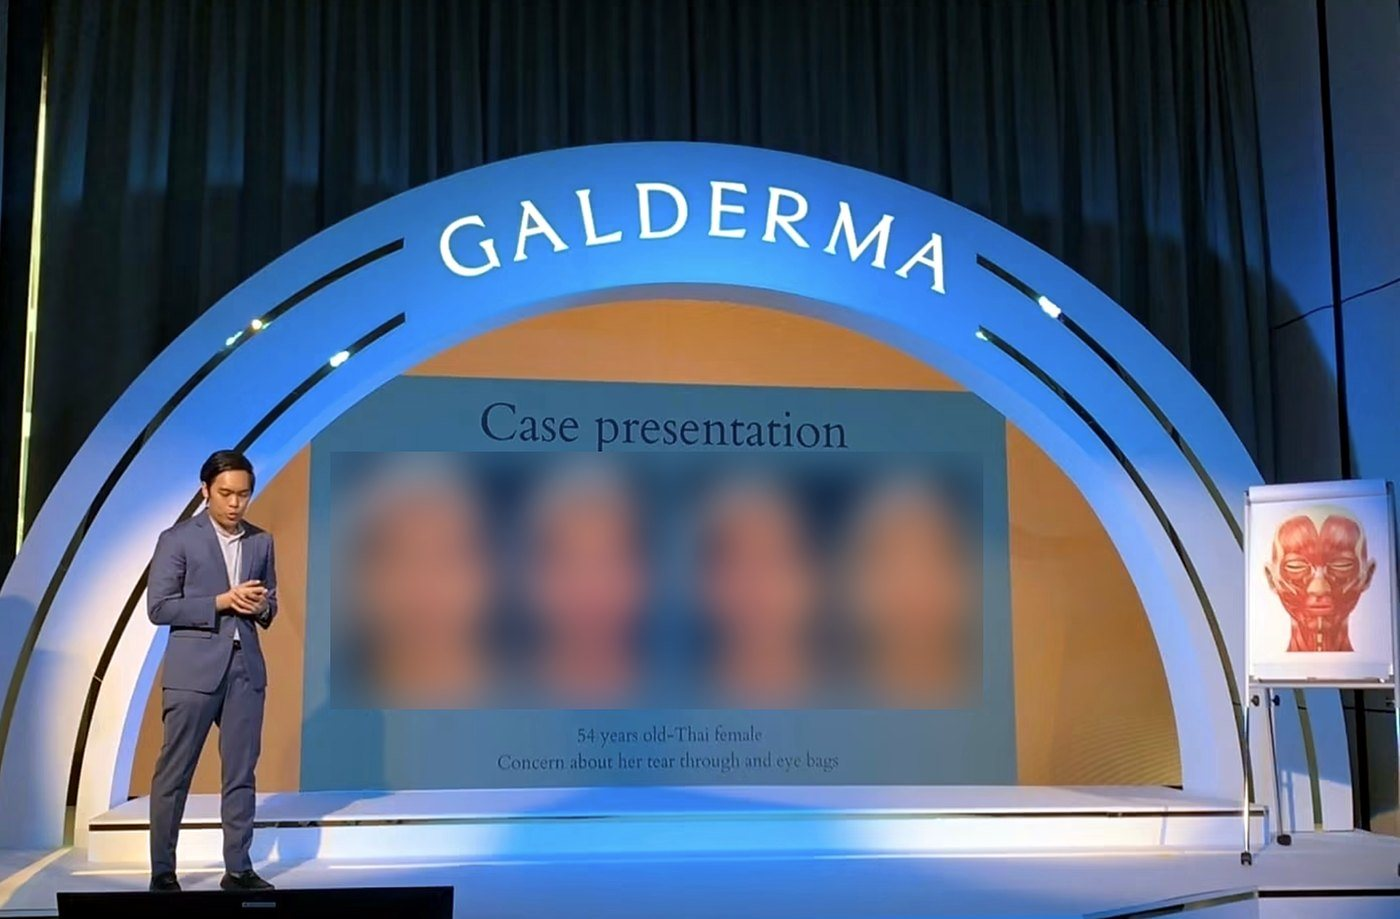
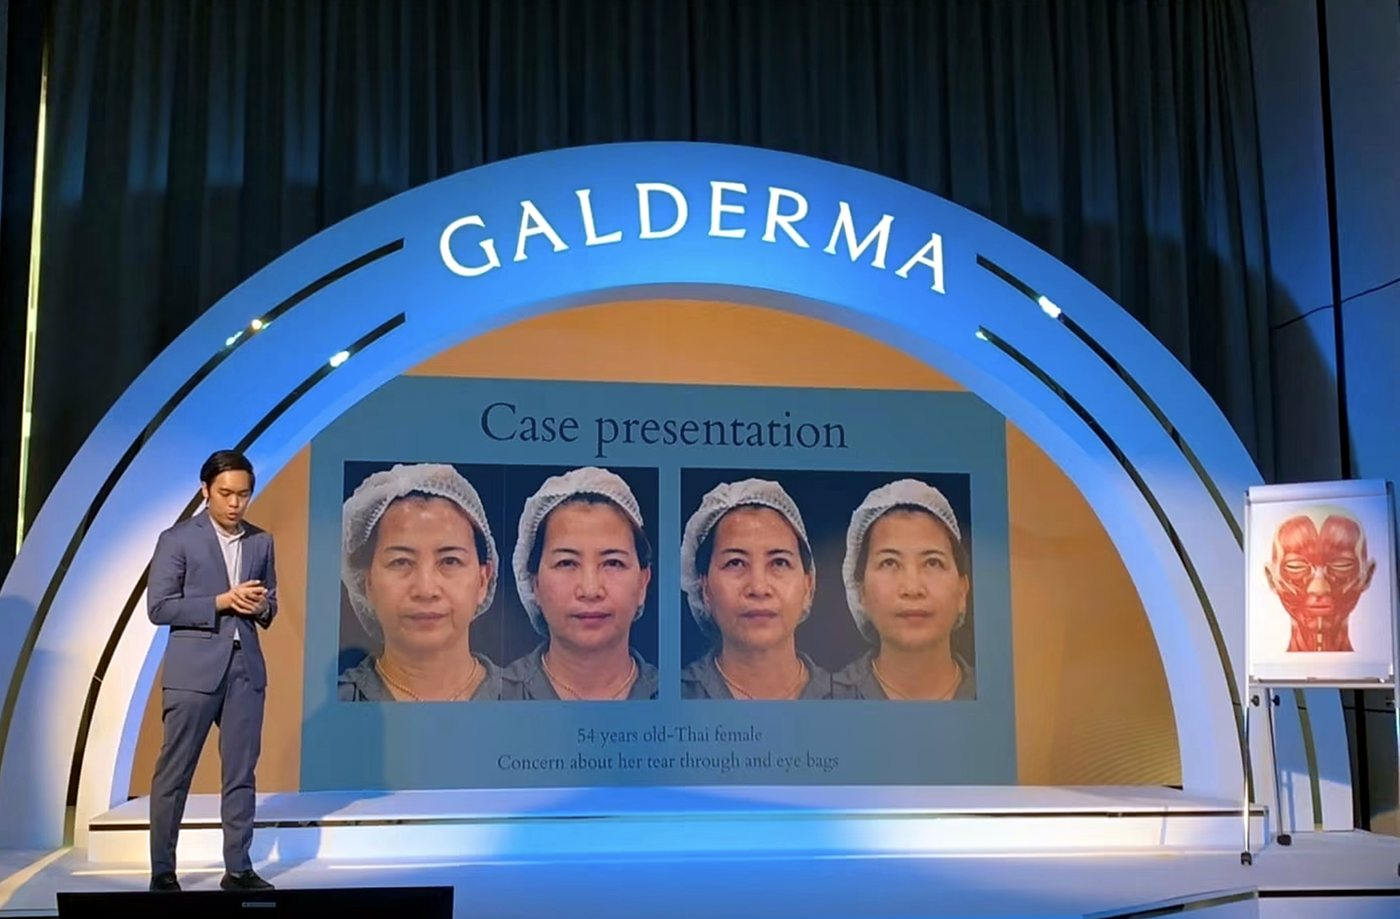
Doctor page: show case-presentation slide unblurred (patient consent on file)
Claude-Session: https://claude.ai/code/session_01QoYuxddHiAEPK6JLSSJk5B

Changed region(s): [[0.215, 0.4875, 0.7064, 0.7922]]

diff --git a/doctor/index.html b/doctor/index.html
@@ -167,7 +167,7 @@
 <figure class="s-b"><picture><source srcset="/assets/img/doctor/handson-workshop-2022.webp?v=ed2eb88d1f" type="image/webp"><img src="/assets/img/doctor/handson-workshop-2022.jpg?v=58b7c0e2cb" alt="นพ.เดโชวัต ดูแลแพทย์ผู้เข้าอบรมระหว่างฝึกฉีด" width="1400" height="864" loading="lazy"></picture><figcaption>ลงมือข้างแพทย์ผู้เข้าอบรม · 2022</figcaption></figure>
 <figure class="s-c"><picture><source srcset="/assets/img/doctor/kysse-roadshow-2022-demo.webp?v=7a95aadb42" type="image/webp"><img src="/assets/img/doctor/kysse-roadshow-2022-demo.jpg?v=fa170f92ed" alt="นพ.เดโชวัต สาธิตต่อหน้าแพทย์ผู้เข้าอบรม" width="870" height="799" loading="lazy"></picture><figcaption>สาธิตต่อหน้าแพทย์ · 2022</figcaption></figure>
 <figure class="s-d"><picture><source srcset="/assets/img/doctor/training-group-2022.webp?v=369ec172e9" type="image/webp"><img src="/assets/img/doctor/training-group-2022.jpg?v=a3c6af235f" alt="ภาพหมู่วิทยากรและแพทย์ผู้เข้าอบรม" width="1400" height="925" loading="lazy"></picture><figcaption>จบอีกหนึ่งรุ่น · 2022</figcaption></figure>
-<figure class="s-e"><picture><source srcset="/assets/img/doctor/case-presentation-stage.webp?v=349a600e40" type="image/webp"><img src="/assets/img/doctor/case-presentation-stage.jpg?v=901b339c12" alt="นพ.เดโชวัต นำเสนอเคสบนเวที (เบลอภาพผู้รับการรักษา)" width="1400" height="919" loading="lazy"></picture><figcaption>นำเสนอเคสบนเวที</figcaption></figure>
+<figure class="s-e"><picture><source srcset="/assets/img/doctor/case-presentation-stage.webp?v=d3a6186c0c" type="image/webp"><img src="/assets/img/doctor/case-presentation-stage.jpg?v=3ea741f62c" alt="นพ.เดโชวัต นำเสนอเคสบนเวที" width="1400" height="919" loading="lazy"></picture><figcaption>นำเสนอเคสบนเวที</figcaption></figure>
 <figure class="s-f"><picture><source srcset="/assets/img/doctor/gain-2021-trophy.webp?v=4199009e3f" type="image/webp"><img src="/assets/img/doctor/gain-2021-trophy.jpg?v=0f946477a2" alt="นพ.เดโชวัต ถือถ้วยรางวัลและใบประกาศบนเวที" width="1400" height="1398" loading="lazy"></picture><figcaption>รับรางวัล · 2021</figcaption></figure>
 </div>
 </div>

diff --git a/pages/doctor.html b/pages/doctor.html
@@ -116,7 +116,7 @@
 <figure class="s-b"><picture><source srcset="/assets/img/doctor/handson-workshop-2022.webp" type="image/webp"><img src="/assets/img/doctor/handson-workshop-2022.jpg" alt="นพ.เดโชวัต ดูแลแพทย์ผู้เข้าอบรมระหว่างฝึกฉีด" width="1400" height="864" loading="lazy"></picture><figcaption>ลงมือข้างแพทย์ผู้เข้าอบรม · 2022</figcaption></figure>
 <figure class="s-c"><picture><source srcset="/assets/img/doctor/kysse-roadshow-2022-demo.webp" type="image/webp"><img src="/assets/img/doctor/kysse-roadshow-2022-demo.jpg" alt="นพ.เดโชวัต สาธิตต่อหน้าแพทย์ผู้เข้าอบรม" width="870" height="799" loading="lazy"></picture><figcaption>สาธิตต่อหน้าแพทย์ · 2022</figcaption></figure>
 <figure class="s-d"><picture><source srcset="/assets/img/doctor/training-group-2022.webp" type="image/webp"><img src="/assets/img/doctor/training-group-2022.jpg" alt="ภาพหมู่วิทยากรและแพทย์ผู้เข้าอบรม" width="1400" height="925" loading="lazy"></picture><figcaption>จบอีกหนึ่งรุ่น · 2022</figcaption></figure>
-<figure class="s-e"><picture><source srcset="/assets/img/doctor/case-presentation-stage.webp" type="image/webp"><img src="/assets/img/doctor/case-presentation-stage.jpg" alt="นพ.เดโชวัต นำเสนอเคสบนเวที (เบลอภาพผู้รับการรักษา)" width="1400" height="919" loading="lazy"></picture><figcaption>นำเสนอเคสบนเวที</figcaption></figure>
+<figure class="s-e"><picture><source srcset="/assets/img/doctor/case-presentation-stage.webp" type="image/webp"><img src="/assets/img/doctor/case-presentation-stage.jpg" alt="นพ.เดโชวัต นำเสนอเคสบนเวที" width="1400" height="919" loading="lazy"></picture><figcaption>นำเสนอเคสบนเวที</figcaption></figure>
 <figure class="s-f"><picture><source srcset="/assets/img/doctor/gain-2021-trophy.webp" type="image/webp"><img src="/assets/img/doctor/gain-2021-trophy.jpg" alt="นพ.เดโชวัต ถือถ้วยรางวัลและใบประกาศบนเวที" width="1400" height="1398" loading="lazy"></picture><figcaption>รับรางวัล · 2021</figcaption></figure>
 </div>
 </div>

diff --git a/en/doctor/index.html b/en/doctor/index.html
@@ -167,7 +167,7 @@
 <figure class="s-b"><picture><source srcset="/assets/img/doctor/handson-workshop-2022.webp?v=ed2eb88d1f" type="image/webp"><img src="/assets/img/doctor/handson-workshop-2022.jpg?v=58b7c0e2cb" alt="Dr. Dechowat guiding a physician during hands-on practice" width="1400" height="864" loading="lazy"></picture><figcaption>Hands-on, side by side · 2022</figcaption></figure>
 <figure class="s-c"><picture><source srcset="/assets/img/doctor/kysse-roadshow-2022-demo.webp?v=7a95aadb42" type="image/webp"><img src="/assets/img/doctor/kysse-roadshow-2022-demo.jpg?v=fa170f92ed" alt="Dr. Dechowat demonstrating in front of physicians" width="870" height="799" loading="lazy"></picture><figcaption>Live demonstration · 2022</figcaption></figure>
 <figure class="s-d"><picture><source srcset="/assets/img/doctor/training-group-2022.webp?v=369ec172e9" type="image/webp"><img src="/assets/img/doctor/training-group-2022.jpg?v=a3c6af235f" alt="Speakers and attending physicians after a training day" width="1400" height="925" loading="lazy"></picture><figcaption>Another cohort completed · 2022</figcaption></figure>
-<figure class="s-e"><picture><source srcset="/assets/img/doctor/case-presentation-stage.webp?v=349a600e40" type="image/webp"><img src="/assets/img/doctor/case-presentation-stage.jpg?v=901b339c12" alt="Dr. Dechowat presenting a case on stage (patient images blurred)" width="1400" height="919" loading="lazy"></picture><figcaption>Case presentation on stage</figcaption></figure>
+<figure class="s-e"><picture><source srcset="/assets/img/doctor/case-presentation-stage.webp?v=d3a6186c0c" type="image/webp"><img src="/assets/img/doctor/case-presentation-stage.jpg?v=3ea741f62c" alt="Dr. Dechowat presenting a case on stage" width="1400" height="919" loading="lazy"></picture><figcaption>Case presentation on stage</figcaption></figure>
 <figure class="s-f"><picture><source srcset="/assets/img/doctor/gain-2021-trophy.webp?v=4199009e3f" type="image/webp"><img src="/assets/img/doctor/gain-2021-trophy.jpg?v=0f946477a2" alt="Dr. Dechowat holding a trophy and certificate on stage" width="1400" height="1398" loading="lazy"></picture><figcaption>Award night · 2021</figcaption></figure>
 </div>
 </div>

diff --git a/pages/en/doctor.html b/pages/en/doctor.html
@@ -116,7 +116,7 @@
 <figure class="s-b"><picture><source srcset="/assets/img/doctor/handson-workshop-2022.webp" type="image/webp"><img src="/assets/img/doctor/handson-workshop-2022.jpg" alt="Dr. Dechowat guiding a physician during hands-on practice" width="1400" height="864" loading="lazy"></picture><figcaption>Hands-on, side by side · 2022</figcaption></figure>
 <figure class="s-c"><picture><source srcset="/assets/img/doctor/kysse-roadshow-2022-demo.webp" type="image/webp"><img src="/assets/img/doctor/kysse-roadshow-2022-demo.jpg" alt="Dr. Dechowat demonstrating in front of physicians" width="870" height="799" loading="lazy"></picture><figcaption>Live demonstration · 2022</figcaption></figure>
 <figure class="s-d"><picture><source srcset="/assets/img/doctor/training-group-2022.webp" type="image/webp"><img src="/assets/img/doctor/training-group-2022.jpg" alt="Speakers and attending physicians after a training day" width="1400" height="925" loading="lazy"></picture><figcaption>Another cohort completed · 2022</figcaption></figure>
-<figure class="s-e"><picture><source srcset="/assets/img/doctor/case-presentation-stage.webp" type="image/webp"><img src="/assets/img/doctor/case-presentation-stage.jpg" alt="Dr. Dechowat presenting a case on stage (patient images blurred)" width="1400" height="919" loading="lazy"></picture><figcaption>Case presentation on stage</figcaption></figure>
+<figure class="s-e"><picture><source srcset="/assets/img/doctor/case-presentation-stage.webp" type="image/webp"><img src="/assets/img/doctor/case-presentation-stage.jpg" alt="Dr. Dechowat presenting a case on stage" width="1400" height="919" loading="lazy"></picture><figcaption>Case presentation on stage</figcaption></figure>
 <figure class="s-f"><picture><source srcset="/assets/img/doctor/gain-2021-trophy.webp" type="image/webp"><img src="/assets/img/doctor/gain-2021-trophy.jpg" alt="Dr. Dechowat holding a trophy and certificate on stage" width="1400" height="1398" loading="lazy"></picture><figcaption>Award night · 2021</figcaption></figure>
 </div>
 </div>
